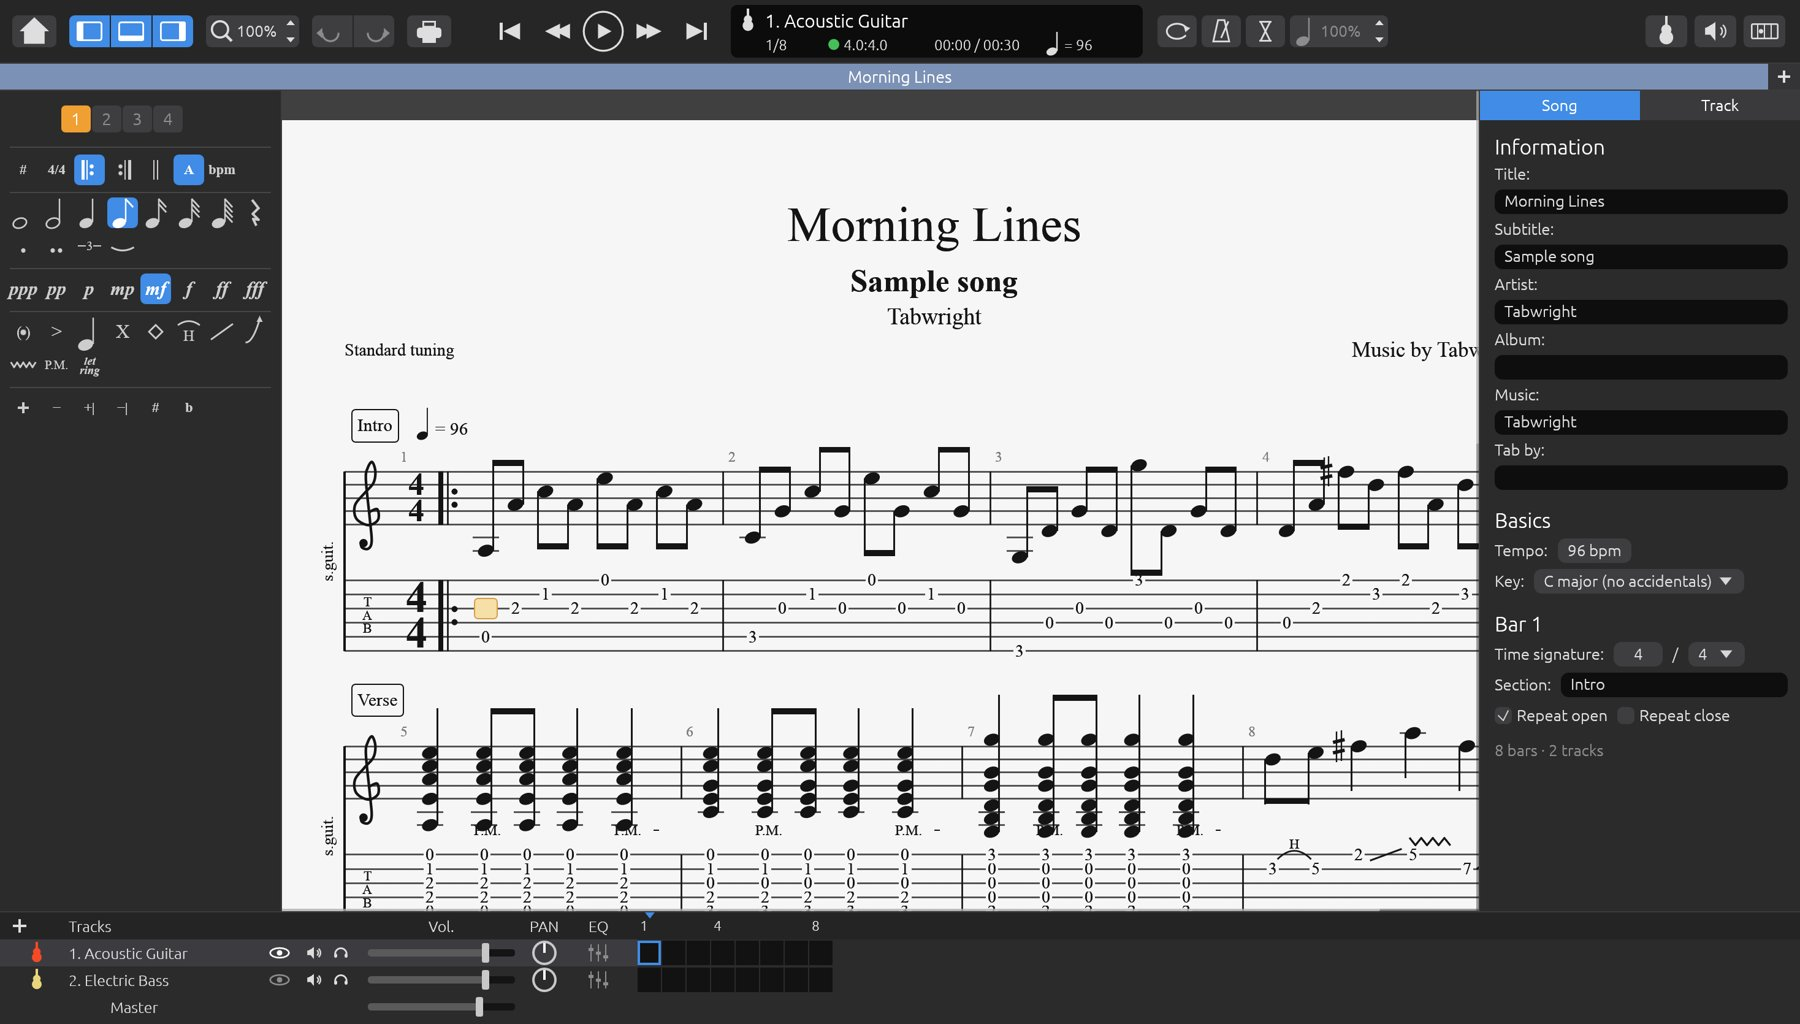
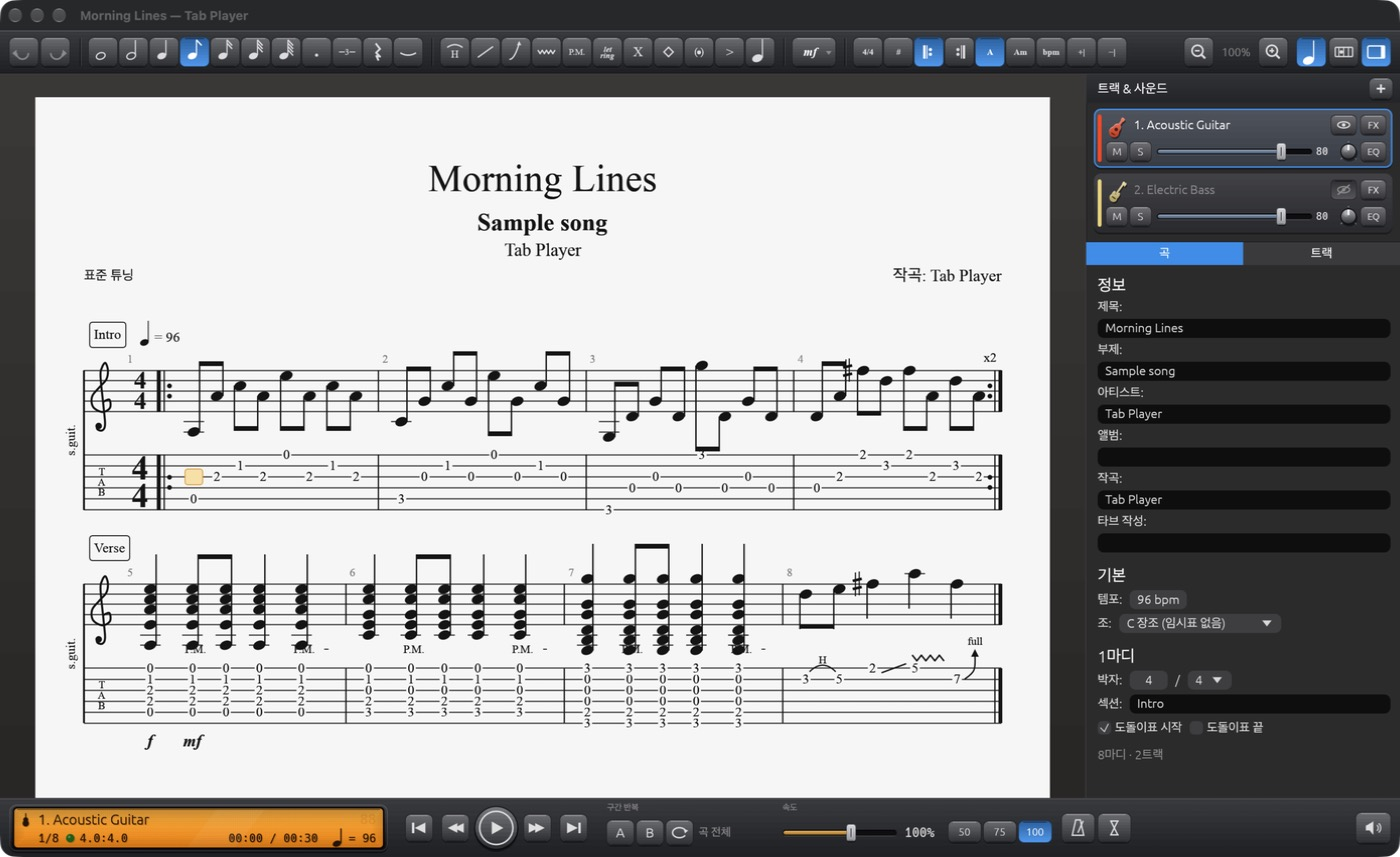
Add files via upload

diff --git a/docs/index.html b/docs/index.html
@@ -46,6 +46,9 @@
   section p.lead{color:var(--muted);margin:0 0 36px;font-size:17px}
   .grid{display:grid;grid-template-columns:repeat(auto-fit,minmax(240px,1fr));gap:18px}
   .card{background:var(--card);border:1px solid var(--line);border-radius:14px;padding:22px}
+  .fig{margin:36px auto 0;max-width:900px}
+  .fig img{display:block;width:100%;border-radius:14px;border:1px solid var(--line);box-shadow:0 20px 60px rgba(0,0,0,.5)}
+  .fig figcaption{text-align:center;color:var(--muted);font-size:14px;margin-top:12px}
   .card .ico{font-size:26px}
   .card h3{margin:8px 0 6px;font-size:17px}
   .card p{margin:0;color:var(--muted);font-size:14.5px}
@@ -153,6 +156,11 @@
         <p data-lang="ko">한국어, English, 日本語, 简体中文을 지원하며 시스템 언어를 자동으로 따릅니다.</p>
         <p data-lang="en">Korean, English, Japanese and Simplified Chinese; follows your system language automatically.</p></div>
     </div>
+    <figure class="fig">
+      <img src="pedalboard.jpg" alt="Tab Player 이펙터 & 앰프 창" loading="lazy">
+      <figcaption data-lang="ko">트랙마다 페달과 앰프·캐비닛으로 톤을 만드는 이펙터 & 앰프 창</figcaption>
+      <figcaption data-lang="en">The effects &amp; amp window: build each track's tone with pedals, an amp and a cabinet</figcaption>
+    </figure>
   </div>
 </section>
 
